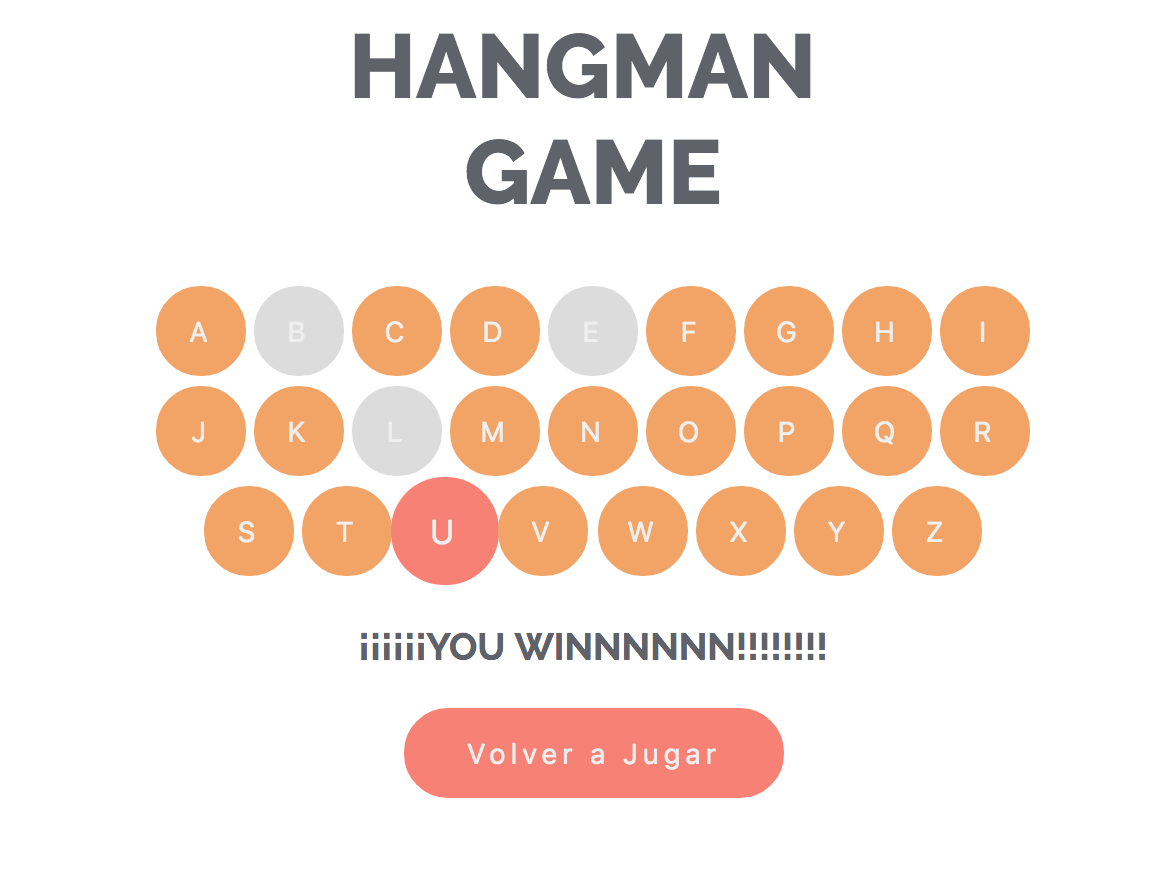
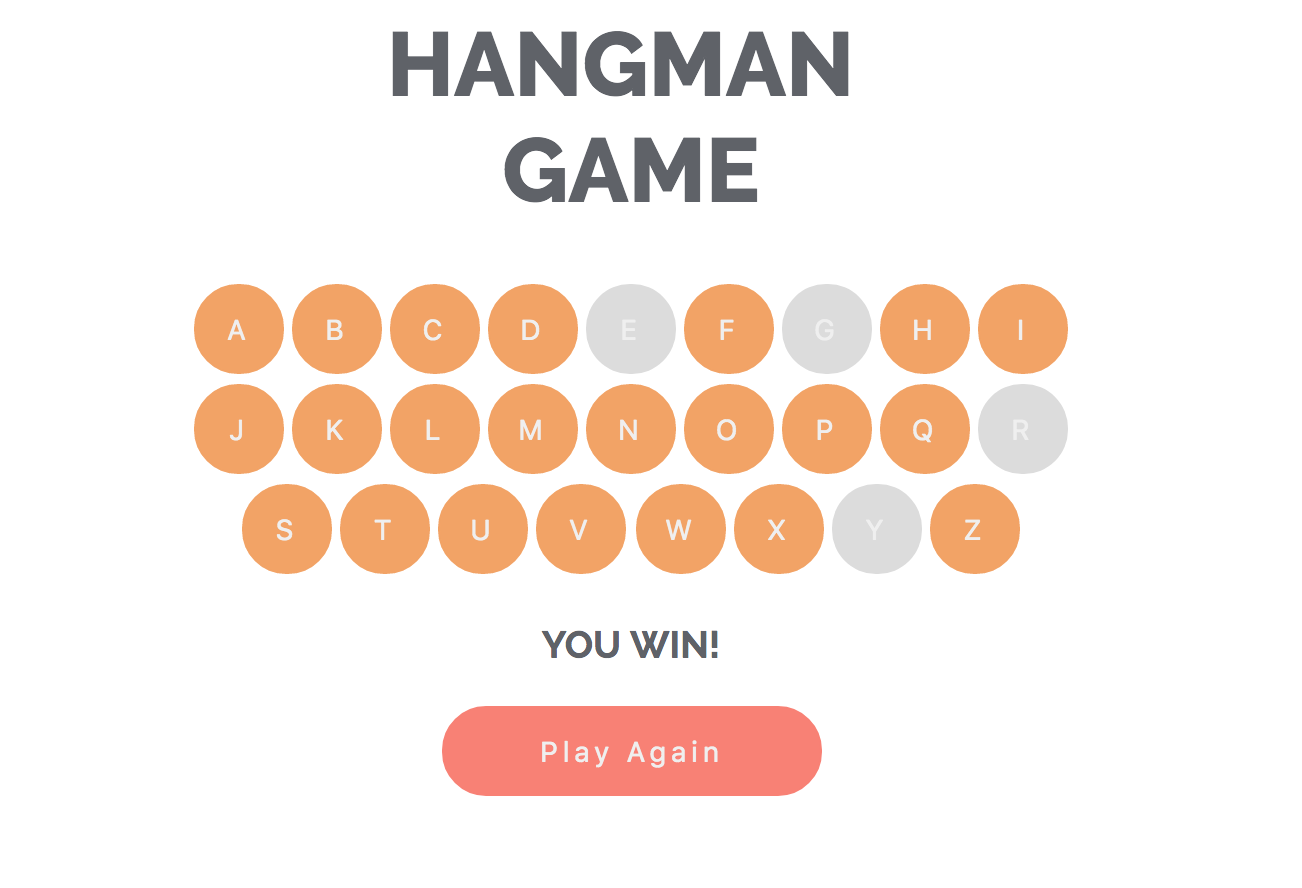
updated readme

diff --git a/index.js b/index.js
@@ -36,10 +36,8 @@ $(document).ready(function() {
         if (goodGuesses.length === randomWordArray.length) {
           $("#container").hide();
           $("button").prop("disabled", "true");
-          $(".category").text("¡¡¡¡¡¡YOU WINNNNNN!!!!!!!!");
-          $(".category").append(
-            "<br><button enabled class='play-again'>Volver a Jugar</button>"
-          );
+          $(".category").text("¡You Win!");
+          $(".category").append( "<br><button enabled class='play-again'>Play Again</button>");
         }
       }
     });

diff --git a/README.md b/README.md
@@ -1,9 +1,14 @@
 ## Hangman-Jquery
-Proyecto de lógica con Jquery. 
+Logic project with Jquery.
 
-![Game](/image/start.jpg);
-![Win](/image/Lost-game.jpg);
-![Lost](/image/win-game.jpg);
+Build: 
+1. JQUERY
+2. WEBPACK
+3. HTML / CSS
+
+![Game](image/start.png);
+![Win](image/Lost-game.png);
+![Lost](image/win-game.png);
 
 
 
